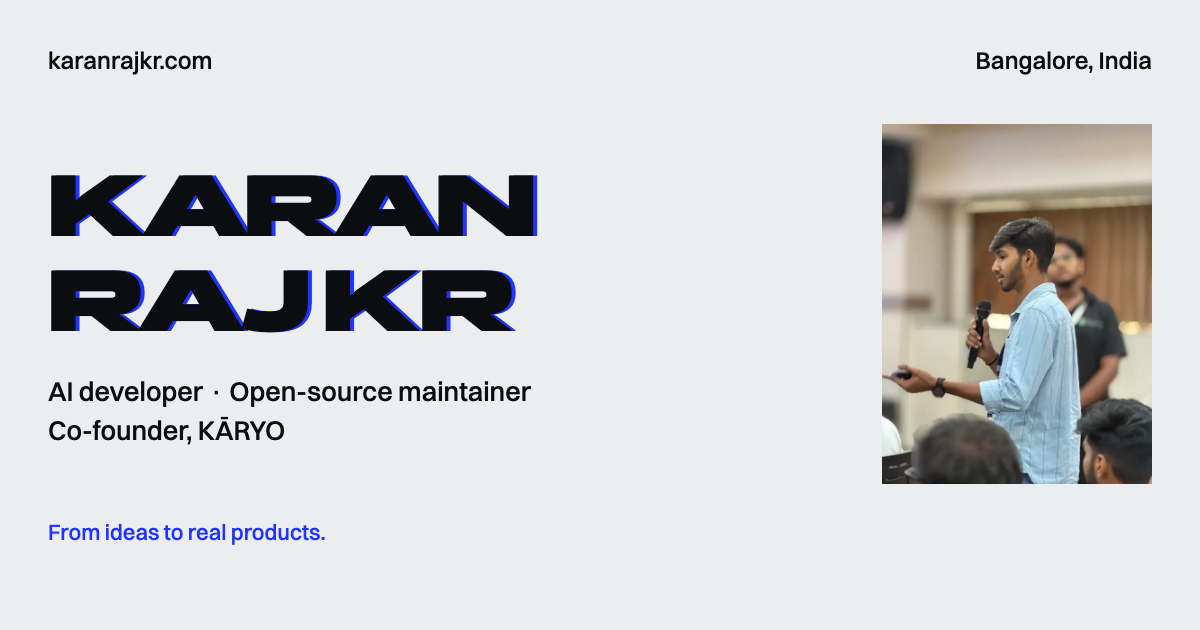
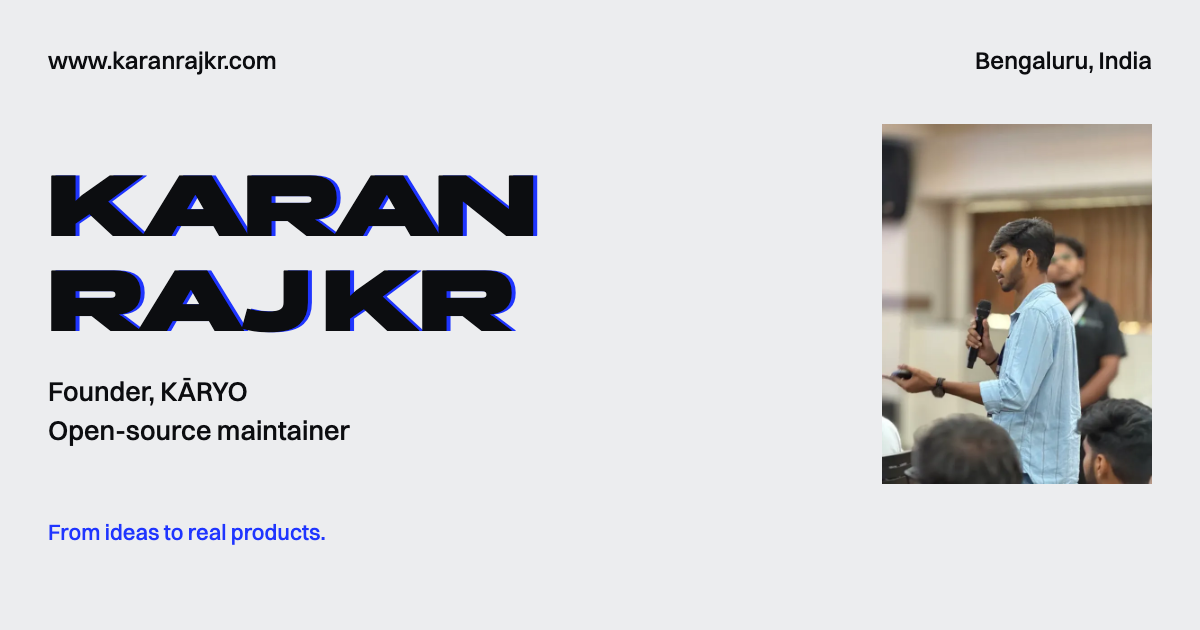
Reposition site around Founder, KĀRYO and update facts for Nov 2026
- Titles, meta, OG image, manifest and JSON-LD now lead with
  "Karan Raj KR" and "Founder, KĀRYO"; Person gains alternateName,
  jobTitle and award updates; Organization.founder is Karan only
- Remove teammate names site-wide; team builds stay described as team
  builds ("my team", "two teammates")
- Eligent is a live product with paying users and leads the work order;
  add a ClinicDesk case study; work pages get a "Built by" byline and
  "<Project> by Karan Raj KR" titles
- About and Record: 2nd year and CGPA, EDC President 2026-27, AWS Student
  Builder Group Leader (student-led), Best Member 2025, NIAT Ideathon
  2025, ETHGlobal Mumbai participation, NxtWave Creator Fest selection
- Bangalore becomes Bengaluru; redirect /work/ to /#work; nofollow on
  Gmail and Outlook compose links
- Checks: allow Gubbi and Tumkur, expect the new featured order

Changed region(s): [[0.0308, 0.6032, 0.4625, 0.7238], [0.0308, 0.0603, 0.2467, 0.1206], [0.8017, 0.0905, 0.925, 0.1206]]

diff --git a/src/data/site.ts b/src/data/site.ts
@@ -18,7 +18,7 @@ export type Project = {
   title: string;
   kind: string; // what it is
   result: string; // the index column: placement or status
-  year: number;
+  year?: number;
   team: string;
   stack: string[];
   summary: string; // what it does, for whom; the result is stated separately, once
@@ -48,13 +48,13 @@ export const media = {
 export const site = {
   name: 'Karan Raj KR',
   short: 'Karan Raj',
-  role: 'Co-founder, KĀRYO',
-  seoTitle: 'Karan Raj KR | AI Developer & KĀRYO Co-founder',
+  role: 'Founder, KĀRYO',
+  seoTitle: 'Karan Raj KR | Founder, KĀRYO | Bengaluru',
   url: 'https://www.karanrajkr.com',
   description:
-    'Karan Raj KR is an AI developer, open-source maintainer and KĀRYO co-founder in Bangalore. Explore AI projects, national hackathon wins and build notes.',
+    'Karan Raj KR is the Founder of KĀRYO, an agency selling websites and clinic software to local businesses in Bengaluru. See his products and hackathon wins.',
   email: 'mail@karanrajkr.com',
-  location: 'Based in Bangalore.',
+  location: 'Based in Bengaluru.',
   github: 'Karan-Raj-KR',
   socials: [
     { label: 'GitHub', href: 'https://github.com/Karan-Raj-KR' },
@@ -71,8 +71,8 @@ export const site = {
   hero: {
     // The h1, one line each: Karan's own line from karanrajkr.com, set in the display face.
     title: ['From ideas', 'to real', 'products.'],
-    sentence: 'I’m Karan Raj KR. I build AI products, co-founded KĀRYO with Havinash, and maintain crewai-recipes, an open-source CrewAI repository.',
-    roles: 'B.Tech CSE (AI/ML) at NIAT and S-VYASA, batch of 2029. Based in Bangalore.',
+    sentence: 'I’m Karan Raj KR, Founder of KĀRYO. I build AI products and maintain crewai-recipes, an open-source CrewAI repository.',
+    roles: '2nd-year B.Tech CSE (AI/ML) at NIAT x S-VYASA, batch 2025–29, CGPA 8.92. Based in Bengaluru, from Gubbi, Tumkur.',
     action: { label: 'See the work', href: '#work' },
     second: { label: 'Email me', href: '#contact' },
   },
@@ -87,21 +87,21 @@ export const site = {
     heading: 'Results so far',
     lead: 'Each against the field it was measured in.',
     items: [
-      { figure: '1st', event: 'Open Loop 2026', detail: 'A national-level hackathon with teams from 14+ states. We won with FormPilot, built with Havinash and Saagnik.', when: 'Apr 2026', href: '/work/formpilot/' },
+      { figure: '1st', event: 'Open Loop 2026', detail: 'A national-level hackathon with teams from 14+ states. My team and I won with FormPilot.', when: 'Apr 2026', href: '/work/formpilot/' },
       { figure: 'Top 40', event: 'Hack BLR 2026', detail: 'VoiceRx, a voice health assistant, built alone against 2,500+ teams.', when: 'Apr 2026', href: '/work/voicerx/' },
       { figure: 'Top 41', event: 'OpenAI DevDay Exchange', detail: 'Selected from thousands of applications for the community hackathon in Bengaluru.', when: 'Oct 2026' },
       { figure: '2/2', event: 'GRIT Awards 2026', detail: 'Won both the Content and the Hackathons categories at NIAT.', when: '2026' },
       { figure: 'Award', event: 'Technology Innovators Award', detail: 'Certificate of achievement.', when: 'Aug 2026' },
-      { figure: '1st', event: 'Ideathon 2026', detail: 'First place.', when: '2026' },
+      { figure: '1st', event: 'NIAT Ideathon 2025', detail: 'First place.', when: '2025' },
     ],
   },
 
   karyo: {
     heading: 'KĀRYO',
     // [[c|text]] marks a highlight: c is b (blue), k (ink) or t (tone).
-    story: 'KĀRYO is the digital agency Havinash and I co-founded in [[b|August 2025]] to put local businesses in Bangalore online. We find clients the direct way, [[k|door to door]], starting with clinics and neighbourhood shops. I lead the backend, business development and client outreach. We build the websites, including the one for [[t|ISKCON Visakhapatnam]], and the tools that run the agency itself: the Client Onboarding Manager for quotations and [[t|GST invoices]], and a Lead Intelligence Agent that decides which doors to knock on next. Every proposal, contract and invoice template is written in house, international clients included. So far the agency and my products have brought in [[b|6 figures in revenue]], and I have pitched KĀRYO to [[k|a VC and an angel investor]].',
+    story: 'KĀRYO is the agency I founded in [[b|August 2025]] to sell websites and clinic software to local businesses in Bengaluru. We find clients the direct way, [[k|door to door]], starting with clinics and neighbourhood shops. I lead the backend, business development and client outreach. We build the websites, including the one for [[t|ISKCON Visakhapatnam]], and the tools that run the agency itself: the Client Onboarding Manager for quotations and [[t|GST invoices]], and a Lead Intelligence Agent that decides which doors to knock on next. Every proposal, contract and invoice template is written in house, international clients included. So far the agency and my products have brought in [[b|6 figures in revenue]], and I have pitched KĀRYO to [[k|a VC and an angel investor]].',
     close: 'See what KĀRYO is doing now.',
-    lead: 'Havinash and I co-founded KĀRYO in August 2025: a digital agency for local businesses in Bangalore. We find clients the direct way, door to door, starting with clinics and local shops.',
+    lead: 'I founded KĀRYO in August 2025: an agency that sells websites and clinic software to local businesses in Bengaluru. We find clients the direct way, door to door, starting with clinics and local shops.',
     work: [
       'I lead backend, business development and client outreach',
       'Client websites, including ISKCON Visakhapatnam (Next.js, Tailwind)',
@@ -117,20 +117,21 @@ export const site = {
   karana: 'KĀRYO is named after the karana, half a lunar day.',
 
   teaser: {
-    heading: 'Building in Bangalore.',
+    heading: 'Building in Bengaluru.',
     text: 'When I’m not shipping, I’m on stage, writing build notes, or knocking on a clinic door for KĀRYO. I also make content on Instagram and LinkedIn.',
   },
 
   about: {
     heading: 'Builder. Founder.',
     bio: [
-      'I’m Karan Raj KR, based in Bangalore, studying B.Tech CSE (AI/ML) at NIAT and S-VYASA, batch of 2025 to 2029.',
-      'In my first year Havinash and I co-founded KĀRYO. I won Open Loop 2026 with FormPilot, placed Top 40 of 2,500+ teams at Hack BLR building solo, and became the project admin of an open-source repository other developers fork. I also make content on Instagram and LinkedIn.',
+      'I’m Karan Raj KR, a 2nd-year B.Tech CSE (AI/ML) student at NIAT x S-VYASA, batch 2025–29, with a CGPA of 8.92. I’m based in Bengaluru and come from Gubbi, Tumkur.',
+      'In my first year I founded KĀRYO, won Open Loop 2026 with FormPilot as part of a team, placed Top 40 of 2,500+ teams at Hack BLR building solo, and became the project admin of an open-source repository other developers fork. Now, in my second year, I am EDC President 2026-27 at NIAT and a Student Builder Group Leader, AWS, which is a student-led role. I also make content on Instagram and LinkedIn.',
     ],
     roles: [
-      { title: 'Co-founder, KĀRYO', when: 'Aug 2025 to now', text: 'Co-founded with Havinash. I lead backend, business development and client outreach for a digital agency serving local businesses.' },
-      { title: 'EDC President candidate', when: 'Now', text: 'Running for President of the Entrepreneurship Development Cell.' },
-      { title: 'Finance Head, ED Club', when: '2025 · First year of B.Tech', text: 'Co-organised 4+ events: an IPL auction, a build-a-product-in-30-minutes pitch, a sponsored teams event and an entrepreneurship debate. The biggest drew 140+ people, and I spoke to large audiences. Won a best member award.' },
+      { title: 'Founder, KĀRYO', when: 'Aug 2025 to now', text: 'I lead backend, business development and client outreach for an agency that sells websites and clinic software to local businesses.' },
+      { title: 'EDC President 2026-27', when: '2026 to 2027', text: 'President of the Entrepreneurship Development Club at NIAT.' },
+      { title: 'Student Builder Group Leader, AWS', when: 'Public since 31 Oct 2026', text: 'A student-led role, not employment or an internship. #AWSsbgl' },
+      { title: 'Finance Head, ED Club', when: '2025 · First year of B.Tech', text: 'Co-organised 4+ events: an IPL auction, a build-a-product-in-30-minutes pitch, a sponsored teams event and an entrepreneurship debate. The biggest drew 140+ people, and I spoke to large audiences. Best Member, Entrepreneurship Club 2025.' },
       { title: 'Project Admin, ECSoC', when: '2026', text: 'crewai-recipes: open-source CrewAI templates on NVIDIA NIM.' },
       { title: 'Contributor, GSSoC', when: '2026', text: '18 pull requests merged in GirlScript Summer of Code.' },
       { title: 'Google Campus Ambassador', when: 'Until Jan 2026', text: 'Past role.' },
@@ -138,12 +139,14 @@ export const site = {
     recognition: [
       'GRIT Awards 2026, NIAT: won both the Content and the Hackathons categories',
       'Technology Innovators Award, certificate of achievement, 10 Aug 2026',
+      'Best Member, Entrepreneurship Club 2025',
       'Top Prompt Creator, Google Pitch Night',
     ],
     now: [
-      'Building the KĀRYO Client Onboarding Manager: quotations, GST invoices and payment automation',
-      'Eligent: a prototype in progress',
-      'Running for EDC President',
+      'Eligent: live, with paying users, and my top priority',
+      'Founder, KĀRYO: websites and clinic software for local businesses',
+      'EDC President 2026-27, Entrepreneurship Development Club, NIAT',
+      'Student Builder Group Leader, AWS: a student-led role',
     ],
     skills: [
       { group: 'Product', items: ['Next.js', 'React', 'TypeScript', 'Tailwind', 'Supabase', 'Python', 'FastAPI'] },
@@ -157,13 +160,15 @@ export const site = {
   },
 
   updates: [
+    { datetime: '2026-11-07', date: '5 to 7 Nov 2026', text: 'Competed at ETHGlobal Mumbai with my team.', href: '/record/#log-competitions' },
+    { datetime: '2026-10-31', date: '31 Oct 2026', text: 'Announced my role as Student Builder Group Leader, AWS, a student-led role. #AWSsbgl', href: '/about/#roles' },
     { datetime: '2026-10-10', date: '10 Oct 2026', text: 'Selected among the top 41 from thousands of applications for the OpenAI DevDay Exchange community hackathon in Bengaluru.', href: '/record/#wins' },
     { datetime: '2026-08-30', date: '29 and 30 Aug 2026', text: 'Built Eligent in 24 hours at The Hive Sprint, Startup Park Bengaluru.', href: '/work/eligent/' },
     { datetime: '2026-08-10', date: '10 Aug 2026', text: 'Received the Technology Innovators Award.', href: '/record/#wins' },
     { datetime: '2026-07-09', date: '9 Jul 2026', text: 'Published the story behind FormPilot and our Open Loop win.', href: '/about/#writing-open-loop-2026-formpilot-winner' },
     { datetime: '2026-07-06', date: '6 Jul 2026', text: 'Published what I built, won and learned in my first year of engineering.', href: '/about/#writing-my-first-year-of-engineering' },
-    { datetime: '2026-04-25', date: '25 and 26 Apr 2026', text: 'Won Open Loop 2026 with FormPilot, built with Havinash and Saagnik.', href: '/work/formpilot/' },
-    { datetime: '2025-08', date: 'Aug 2025', text: 'Co-founded KĀRYO with Havinash in Bangalore.', href: '/#karyo' },
+    { datetime: '2026-04-25', date: '25 and 26 Apr 2026', text: 'Won Open Loop 2026 with FormPilot, built with my team.', href: '/work/formpilot/' },
+    { datetime: '2025-08', date: 'Aug 2025', text: 'Founded KĀRYO in Bengaluru.', href: '/#karyo' },
   ],
 
   record: {
@@ -172,14 +177,15 @@ export const site = {
       {
         name: 'Competitions and hackathons',
         rows: [
+          { when: '5 to 7 Nov 2026', what: 'ETHGlobal Mumbai, with my team', where: 'Mumbai', result: 'Participated', tier: 'minor' },
           { when: '10 Oct 2026', what: 'OpenAI DevDay Exchange community hackathon, selected from thousands of applications', where: 'Bengaluru', result: 'Top 41', tier: 'win' },
           { when: '29 to 30 Aug 2026', what: 'The Hive Sprint, Eligent built in 24 hours', where: 'Startup Park Bengaluru', result: 'Built' },
-          { when: '25 to 26 Apr 2026', what: 'Open Loop 2026, FormPilot with Havinash and Saagnik', where: 'Yenepoya, Mangaluru', result: '1st of 121 teams', tier: 'win' },
+          { when: '25 to 26 Apr 2026', what: 'Open Loop 2026, FormPilot with my team', where: 'Yenepoya, Mangaluru', result: '1st of 121 teams', tier: 'win' },
           { when: 'Apr 2026', what: 'Hack BLR 2026, VoiceRx, solo', where: 'Bengaluru', result: 'Top 40 of 2,500+', tier: 'win' },
           { when: '2026', what: 'GRIT Awards 2026, Content and Hackathons categories', where: 'NIAT', result: 'Won both', tier: 'win' },
-          { when: '2026', what: 'Ideathon 2026', where: '', result: '1st place', tier: 'win' },
+          { when: '2025', what: 'NIAT Ideathon 2025', where: 'NIAT', result: '1st place', tier: 'win' },
           { when: '2026', what: 'Agentathon 2026, KĀRYO Lead Intelligence Agent', where: '', result: 'Participated', tier: 'minor' },
-          { when: '2026', what: 'TakeOver’26, 24 hour live build with Havinash and Saagnik', where: 'NIAT KKH, Hyderabad', result: 'Participated', tier: 'minor' },
+          { when: '2026', what: 'TakeOver’26, 24 hour live build with my team', where: 'NIAT KKH, Hyderabad', result: 'Participated', tier: 'minor' },
           { when: '2026', what: 'Smart India Hackathon 2026, EdgeWake for an ISRO problem statement', where: 'Internal round', result: 'Presented', tier: 'minor' },
         ],
       },
@@ -193,8 +199,9 @@ export const site = {
       {
         name: 'Entrepreneurship',
         rows: [
-          { when: 'Aug 2025 to now', what: 'Co-founder, KĀRYO, with Havinash', where: 'Bangalore', result: 'Active agency' },
+          { when: 'Aug 2025 to now', what: 'Founder, KĀRYO', where: 'Bengaluru', result: 'Active agency' },
           { when: 'To date', what: 'Revenue through the agency and my products', where: '', result: '6 figures' },
+          { when: '2026 to 2027', what: 'EDC President 2026-27, Entrepreneurship Development Club', where: 'NIAT', result: 'Current role' },
           { when: '2025 · First year of B.Tech', what: 'Finance Head, Entrepreneurship (ED) Club', where: 'NIAT', result: '4+ events, 140+ people' },
         ],
       },
@@ -202,13 +209,16 @@ export const site = {
         name: 'Recognition',
         rows: [
           { when: '10 Aug 2026', what: 'Technology Innovators Award', where: 'Certificate of achievement', result: 'Award', tier: 'win' },
+          { when: 'Public since 31 Oct 2026', what: 'Student Builder Group Leader, AWS (#AWSsbgl)', where: 'Student-led role', result: 'Current role' },
           { when: 'Until Jan 2026', what: 'Google Campus Ambassador', where: 'Google', result: 'Past role', tier: 'minor' },
           { when: 'Past', what: 'Top Prompt Creator, Google Pitch Night', where: 'Google', result: 'Credential', tier: 'minor' },
+          { when: '2025', what: 'Best Member, Entrepreneurship Club', where: 'NIAT', result: 'Award', tier: 'minor' },
+          { when: '20 to 22 Nov 2026', what: 'NxtWave Creator Fest 2.0', where: 'Hyderabad', result: 'Selected', tier: 'minor' },
         ],
       },
       {
         name: 'Education',
-        rows: [{ when: '2025 to 2029', what: 'B.Tech CSE (AI/ML)', where: 'NIAT and S-VYASA University, Bengaluru', result: 'In progress' }],
+        rows: [{ when: '2025 to 2029', what: '2nd-year B.Tech CSE (AI/ML), CGPA 8.92', where: 'NIAT x S-VYASA, Bengaluru', result: 'In progress' }],
       },
     ],
   },
@@ -230,12 +240,12 @@ export const projects: Project[] = [
     kind: 'AI Chrome extension',
     result: '1st, Open Loop 2026',
     year: 2026,
-    team: 'Karan Raj KR, Havinash and Saagnik',
+    team: 'Karan Raj KR and two teammates',
     stack: ['Chrome Manifest V3', 'React 18', 'TypeScript', 'Vite', 'esbuild'],
     summary: 'A Chrome extension that reads a web form, works out what each field is asking, shows you its answers, and fills them in when you agree, long answers included.',
-    description: 'FormPilot is an AI Chrome extension that scans a web form, previews its answers and fills them on approval. Built by Karan Raj KR, Havinash and Saagnik.',
+    description: 'FormPilot is an AI Chrome extension that scans a web form, previews its answers and fills them on approval. Built by Karan Raj KR and two teammates.',
     serves: 'People who type the same details into form after form, and still face the long answer at the end of an application.',
-    contribution: 'Team lead. I mapped the architecture, worked out the business model and the pitch, shot the demo video and gave the explanation in judging. Havinash built the frontend and backend logic; he and Saagnik built Google Sign-In.',
+    contribution: 'Team lead. I mapped the architecture, worked out the business model and the pitch, shot the demo video and gave the explanation in judging. A teammate built the frontend and backend logic, and my two teammates built Google Sign-In.',
     links: [
       { label: 'Chrome Web Store', href: 'https://chromewebstore.google.com/detail/formpilot/ffkpekcnpbafklidejfbhinahahaabfi' },
       { label: 'Website', href: 'https://form-pilot.netlify.app/' },
@@ -279,7 +289,7 @@ export const projects: Project[] = [
     kind: 'Voice health assistant',
     result: 'Top 40, Hack BLR 2026',
     year: 2026,
-    team: 'Solo',
+    team: 'Karan Raj KR, solo',
     stack: ['Vapi', 'FastAPI', 'Qdrant', 'Groq', 'FastEmbed'],
     summary: 'A voice assistant that answers health questions on a phone call, from a curated set of health FAQs rather than the model’s memory.',
     description: 'VoiceRx is a voice health assistant Karan Raj KR built solo with Vapi, FastAPI, Qdrant and Groq. It answers from retrieved health FAQs during a call.',
@@ -352,7 +362,7 @@ export const projects: Project[] = [
     kind: 'Open-source repository',
     result: 'Maintainer',
     year: 2026,
-    team: 'Maintainer, with open-source contributors',
+    team: 'Karan Raj KR, maintainer, with open-source contributors',
     stack: ['CrewAI', 'NVIDIA NIM', 'Python', 'FastAPI'],
     summary: 'Ready-to-run CrewAI multi-agent workflows on NVIDIA NIM, with a gallery where you watch a recorded run before you clone anything. I maintain it.',
     description: 'crewai-recipes: open-source, MIT-licensed CrewAI multi-agent workflows on NVIDIA NIM, maintained by Karan Raj KR, with a gallery of recorded runs.',
@@ -389,20 +399,20 @@ export const projects: Project[] = [
   {
     slug: 'eligent',
     title: 'Eligent',
-    kind: 'Eligibility checker',
-    result: 'Prototype',
+    kind: 'AI opportunity engine',
+    result: 'Live product',
     year: 2026,
     team: 'Karan Raj KR',
     stack: ['TypeScript', 'Chrome extension'],
-    summary: 'Tells students which scholarships and opportunities they shouldn’t apply to, and quotes the exact clause that rules them out.',
-    description: 'Eligent tells students which scholarships they don’t qualify for and quotes the clause, with zero AI in the eligibility decision. Built in 24 hours.',
+    summary: 'An AI opportunity engine with deterministic eligibility: it tells students which scholarships and opportunities they shouldn’t apply to, and quotes the exact clause that rules them out.',
+    description: 'Eligent by Karan Raj KR is a live AI opportunity engine with deterministic eligibility. It tells students what not to apply to, and quotes the clause.',
     serves: 'Students applying for scholarships and other opportunities with strict eligibility rules.',
     contribution: 'I built all of it: the eligibility engine, the website and the Chrome extension.',
-    links: [{ label: 'Live prototype', href: 'https://eligent.karanrajkr.com/' }],
-    facts: [{ k: 'Built', v: '24 hours, The Hive Sprint, 29 and 30 Aug 2026' }, { k: 'Where', v: 'Startup Park Bengaluru' }, { k: 'Status', v: 'Prototype in progress' }],
+    links: [{ label: 'Live product', href: 'https://eligent.karanrajkr.com/' }],
+    facts: [{ k: 'Built', v: '24 hours, The Hive Sprint, 29 and 30 Aug 2026' }, { k: 'Where', v: 'Startup Park Bengaluru' }, { k: 'Status', v: 'Live, with paying users' }],
     line: 'Tells students which opportunities they don’t qualify for, and quotes the clause.',
     idea: 'Tell students what they shouldn’t apply to, and quote the clause.',
-    proof: 'A live prototype, built in 24 hours at The Hive Sprint',
+    proof: 'A live product with paying users, first built in 24 hours at The Hive Sprint',
     how: {
       kind: 'verdicts',
       title: 'Three verdicts',
@@ -426,7 +436,7 @@ export const projects: Project[] = [
     kind: 'KĀRYO lead pipeline',
     result: 'Agentathon 2026',
     year: 2026,
-    team: 'Solo',
+    team: 'Karan Raj KR, solo',
     stack: ['CrewAI', 'Groq', 'Python', 'OpenStreetMap'],
     summary: 'Given a city and a category, it finds local businesses, scores the gaps in their online presence, re-checks the borderline ones, and drafts an email for each lead worth pitching.',
     description: 'The KĀRYO Lead Intelligence Agent by Karan Raj KR: a CrewAI and Groq pipeline that finds, scores and re-checks local leads, then drafts outreach.',
@@ -452,14 +462,34 @@ export const projects: Project[] = [
     kind: 'Client website, KĀRYO',
     result: 'Client work',
     year: 2026,
-    team: 'KĀRYO',
+    team: 'Karan Raj KR and KĀRYO',
     stack: ['Next.js 14', 'Tailwind'],
     summary: 'A website for ISKCON Visakhapatnam, designed and built by KĀRYO.',
-    description: 'The ISKCON Visakhapatnam website, a client project built by Karan Raj KR and KĀRYO with Next.js 14 and Tailwind CSS.',
+    description: 'The ISKCON Visakhapatnam website is a client project designed and built by Karan Raj KR and his agency KĀRYO with Next.js 14 and Tailwind CSS.',
     links: [],
     line: 'A client website, designed and shipped through KĀRYO.',
     sections: [
       { heading: 'What it is', text: 'A client website for ISKCON Visakhapatnam, shipped through KĀRYO with Next.js 14 and Tailwind.' },
     ],
   },
+  {
+    slug: 'clinicdesk',
+    title: 'ClinicDesk',
+    kind: 'Dental clinic software',
+    result: 'SaaS product',
+    team: 'Karan Raj KR',
+    stack: [],
+    summary: 'ClinicDesk is a SaaS product for dental clinics.',
+    description: 'ClinicDesk is a dental clinic SaaS by Karan Raj KR, Founder of KĀRYO, the Bengaluru agency that sells websites and clinic software to local businesses.',
+    serves: 'Dental clinics.',
+    links: [],
+    line: 'Software as a service for dental clinics.',
+    sections: [
+      { heading: 'What it is', text: 'A SaaS product for dental clinics. KĀRYO sells websites and clinic software to local businesses.' },
+    ],
+  },
 ];
+
+// Priority order for the work index, the next-project chain, More work and llms.txt.
+const order = ['eligent', 'school-erp', 'clinicdesk', 'crewai-recipes', 'formpilot', 'voicerx', 'client-onboarding-manager', 'lead-intelligence-agent', 'iskcon-visakhapatnam'];
+projects.sort((a, b) => order.indexOf(a.slug) - order.indexOf(b.slug));
